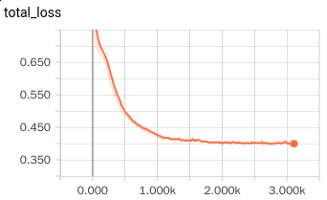
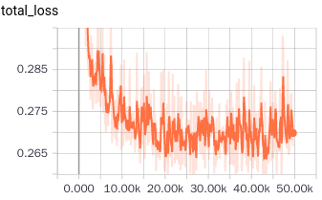
Update the training loss figs & test acc

Changed region(s): [[0.0311, 0.12, 0.9938, 0.99], [0.0, 0.03, 0.1863, 0.09]]

diff --git a/utils.py b/utils.py
@@ -1,4 +1,5 @@
 import os
+import scipy
 import numpy as np
 import tensorflow as tf
 
@@ -46,6 +47,28 @@ def get_batch_data():
                                   allow_smaller_final_batch=False)
 
     return(X, Y)
+
+
+def save_images(imgs, size, path):
+    '''
+    Args:
+        imgs: [batch_size, image_height, image_width]
+        size: a list with tow int elements, [image_height, image_width]
+        path: the path to save images
+    '''
+    imgs = (imgs + 1.) / 2  # inverse_transform
+    return(scipy.misc.imsave(path, mergeImgs(imgs, size)))
+
+
+def mergeImgs(images, size):
+    h, w = images.shape[1], images.shape[2]
+    imgs = np.zeros((h * size[0], w * size[1], 3))
+    for idx, image in enumerate(images):
+        i = idx % size[1]
+        j = idx // size[1]
+        imgs[j * h:j * h + h, i * w:i * w + w, :] = image
+
+    return imgs
 
 
 if __name__ == '__main__':

diff --git a/eval.py b/eval.py
@@ -1,9 +1,9 @@
-from glob import glob
 import numpy as np
 import tensorflow as tf
 
 from config import cfg
 from utils import load_mnist
+from utils import save_images
 from capsNet import CapsNet
 
 
@@ -27,5 +27,10 @@ if __name__ == '__main__':
                 orgin_imgs = np.reshape(teX[start:end], (cfg.batch_size, -1))
                 squared = np.square(recon_imgs - orgin_imgs)
                 reconstruction_err.append(np.mean(squared))
+
+                if i % 5 == 0:
+                    imgs = np.reshape(recon_imgs, (cfg.batch_size, 28, 28, 1))
+                    size = 6
+                    save_images(imgs[0:size * size, :], [size, size], 'results/test_%03d.png' % i)
             print('test acc:')
-            print(1. - np.mean(reconstruction_err))
+            print((1. - np.mean(reconstruction_err)) * 100)

diff --git a/README.md b/README.md
@@ -68,12 +68,24 @@ $ python eval.py --is_training False
 
 
 ## Results
-Code is still running, here some results:
+Results for the 'wrong' version(#8) :
 
+- training loss
 ![total_loss](imgs/total_loss.png)
 
 ![margin_loss](imgs/margin_loss.png)
 ![reconstruction_loss](imgs/reconstruction_loss.png)
+
+- test acc
+
+Epoch | 49 | 51
+:-----|:--:|
+test_acc|94.69|94.71
+
+![](test_000.png)
+![](test_025.png)
+![](test_045.png)
+
 
 ### TODO:
 - Finish the MNIST version of capsNet (progress:90%)
